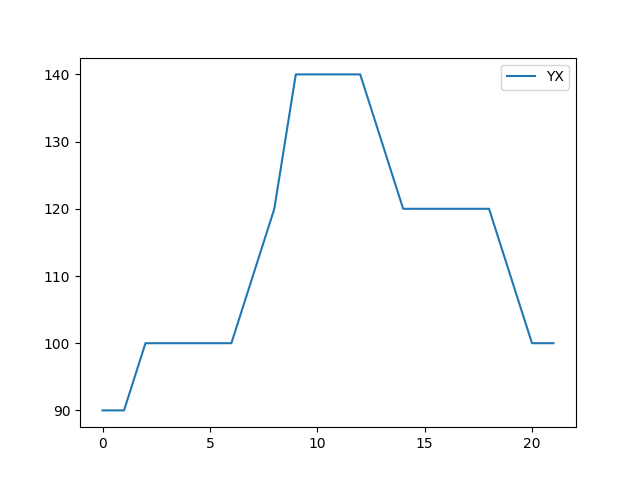
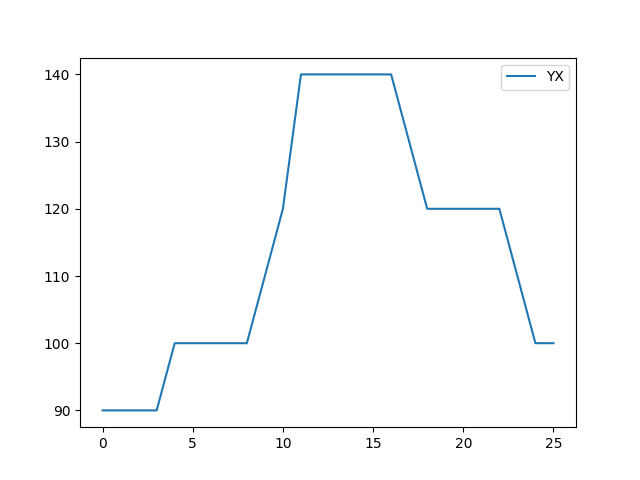
-

diff --git a/tser/tser_010_back/tser_010_back.tex b/tser/tser_010_back/tser_010_back.tex
@@ -17,9 +17,9 @@ YX adlı bir varlığın fiyat seviyesi.
 
 \begin{minted}[fontsize=\footnotesize]{python}
 import pandas as pd
-df = pd.DataFrame([90, 90, 100, 100, 100, 100, 100, 110, 120, 140, \
-                   140, 140, 140, 130, 120, 120, 120, 120, 120, 110, \
-                   100, 100])
+df = pd.DataFrame([90, 90, 90, 90, 100, 100, 100, 100, 100, 110, 120, 140, \
+                   140, 140, 140, 140, 140, 130, 120, 120, 120, 120, 120, \
+                   110, 100, 100])
 df.columns = ['YX']
 df.plot()
 plt.savefig('tser_back_05.png')
